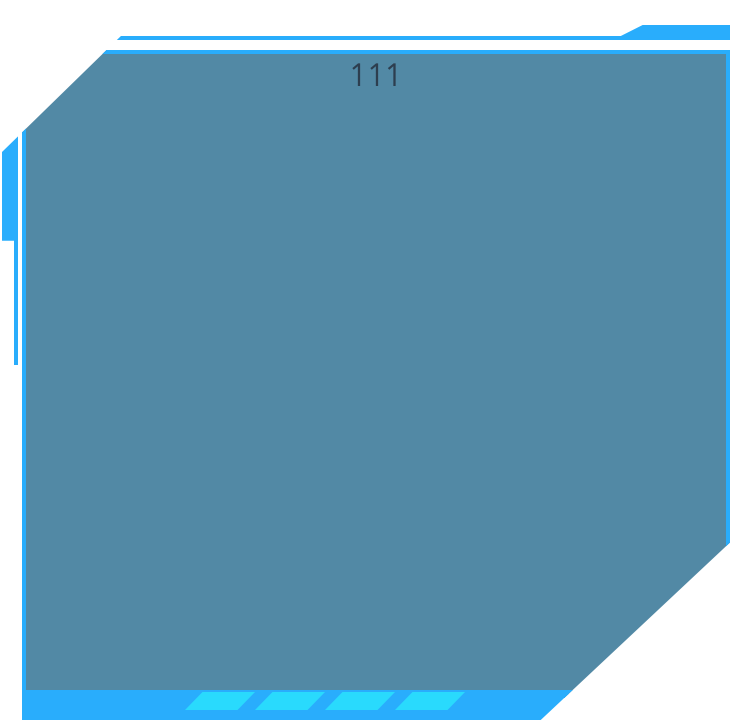
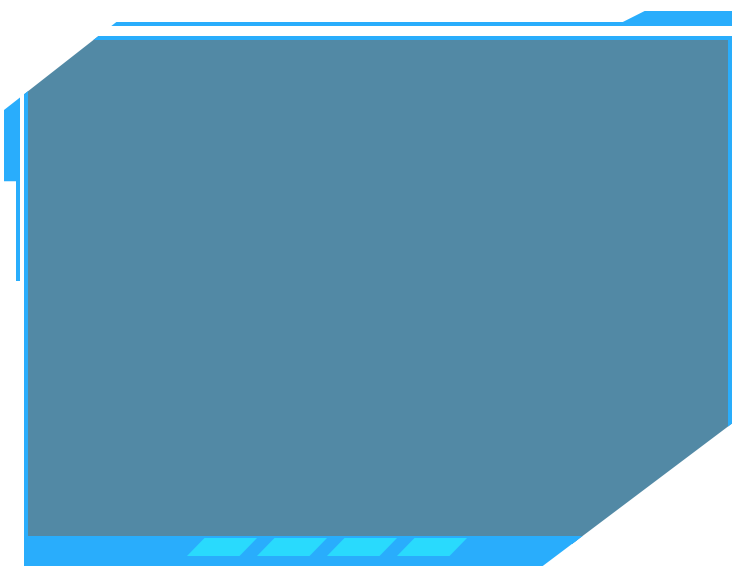
fix: img

Changed region(s): [[0.0, 0.0, 0.9892, 0.9965]]

diff --git a/src/App.vue b/src/App.vue
@@ -4,12 +4,11 @@
  * @Author: WangYuLin
  * @Date: 2021-07-09 15:58:55
  * @LastEditors: WangYuLin
- * @LastEditTime: 2021-08-09 15:22:56
+ * @LastEditTime: 2021-08-09 15:42:18
 -->
 <template>
   <div id="app">
-    <clip-card>
-      111
+    <clip-card :width="350" :height="250">
     </clip-card>
   </div>
 </template>
